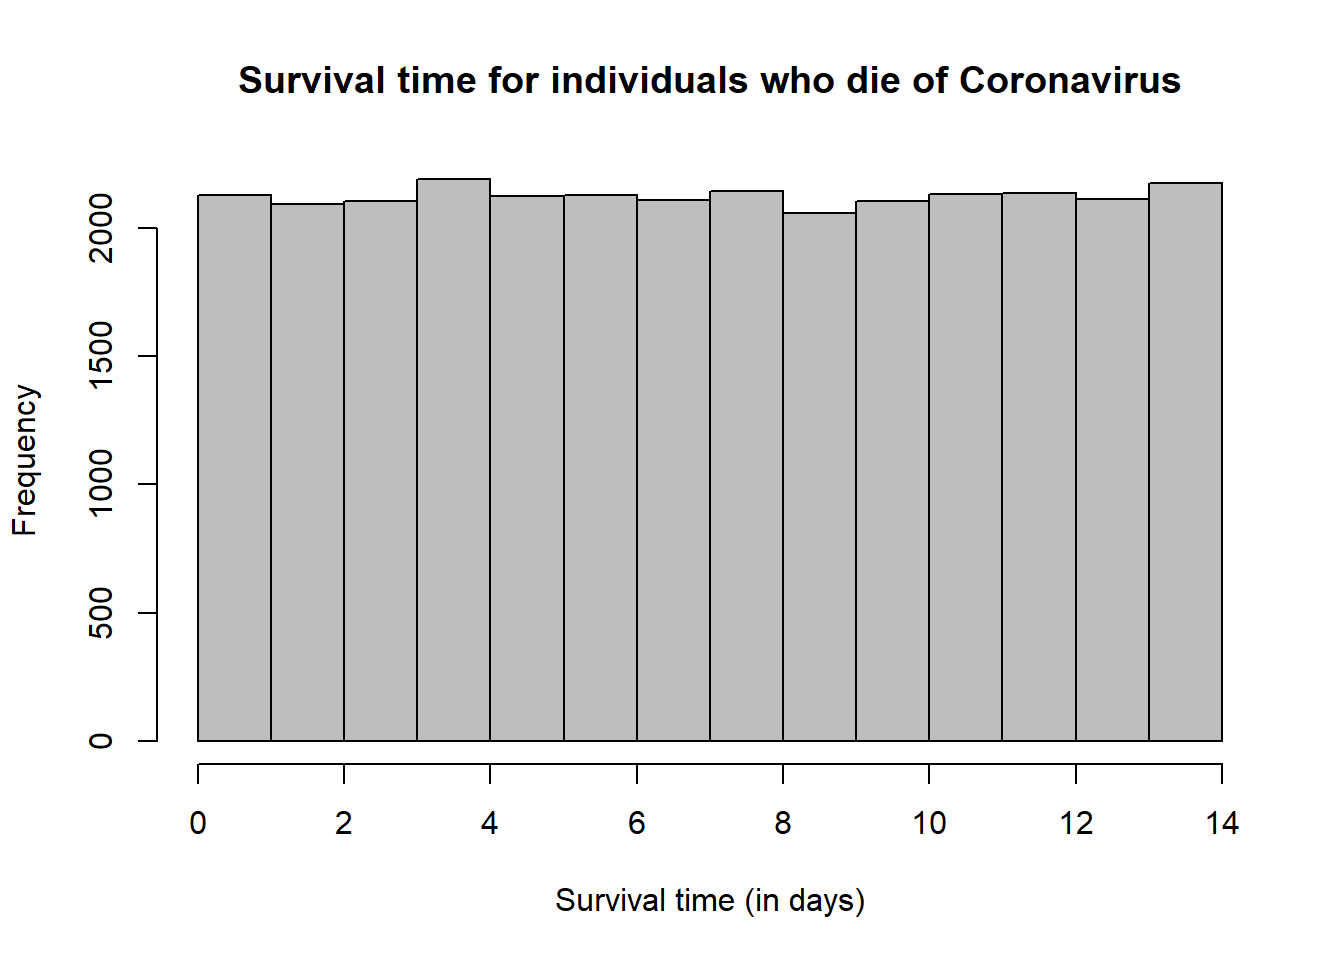
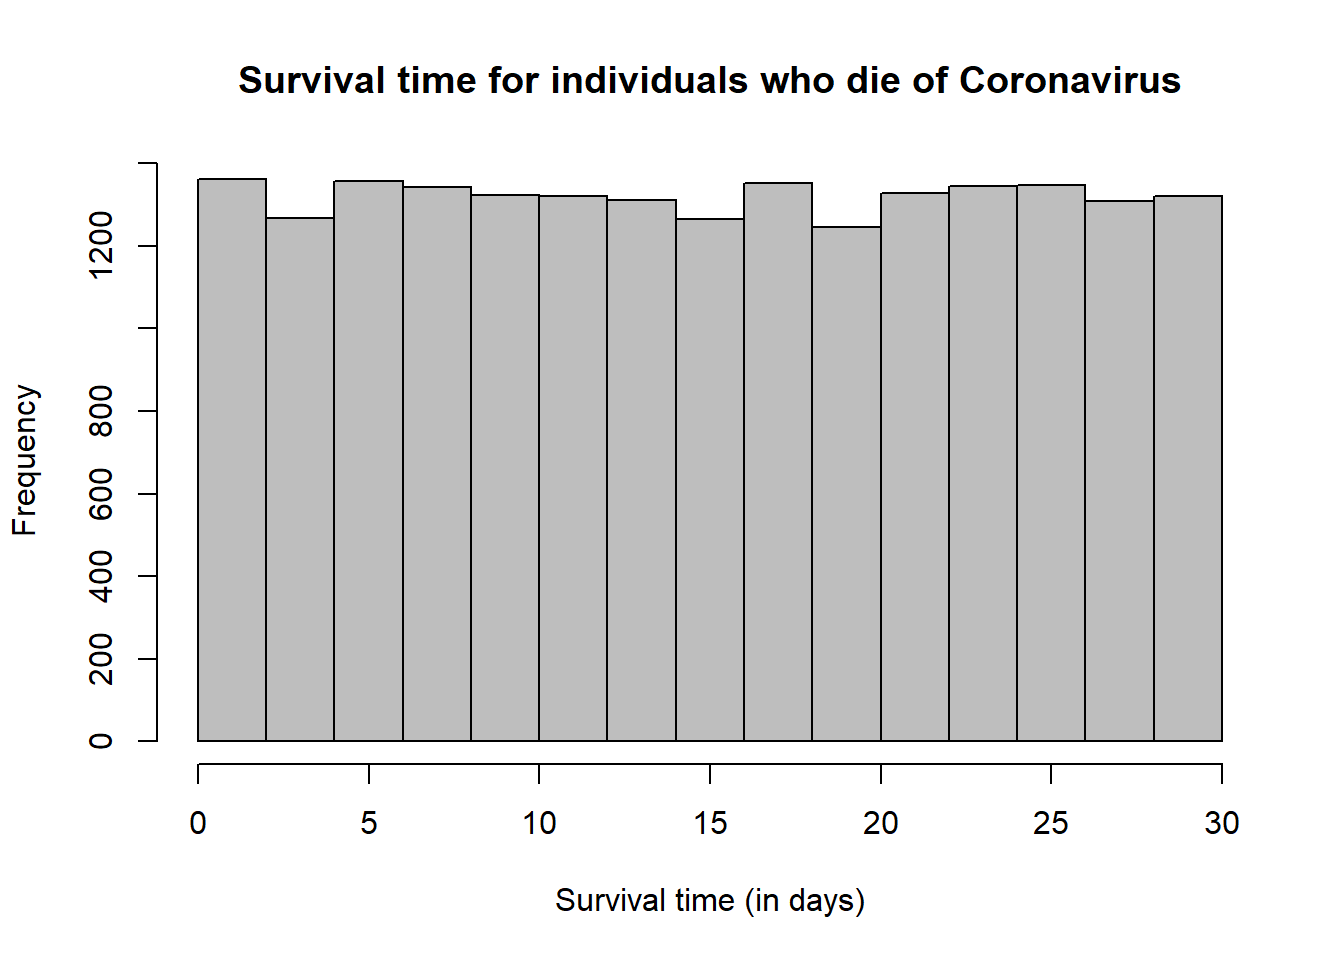
Changed max survival to 30, proportion of non-dying tested to 40%

diff --git a/2020/03/19/a-simulation-approach-to-understand-coronavirus-mortality/index.html b/2020/03/19/a-simulation-approach-to-understand-coronavirus-mortality/index.html
@@ -80,41 +80,43 @@
 
 <p>With the Coronavirus crisis currently being a global emergency, one question that has been asked over and over again is “What is the chance of dying if I contract this virus?” This is not an easy question to answer and we know that it depends on issues like an individual’s age (older individuals are much more likely to be affected than younger individuals) and how well a specific country’s healthcare system is working (including how overburdened it is during the current crisis). Nevertheless, it is still confusing to see how the <a href="https://www.worldometers.info/coronavirus/">death rates</a> are varying between 1% in South Korea and over 8% in Italy (numbers from March 19, 2020).</p>
 <p>In looking at death rates, is clear that the <em>denominator</em> – the number of individuals who are infected – is very susceptible to major differences between countries/regions, both in terms of the age distribution and in terms of who is getting tested – in Italy it is individuals who are more likely to be sick and in South Korea it is more at random, leading to more asymptomatic individuals, many of whom may never get truly sick (but can still transmit the disease) or are likely to only have a very mild illness. Because of this and the fact that Italy has a higher proportion of older individuals than South Korea <a href="https://en.wikipedia.org/wiki/List_of_countries_by_median_age">(median age of 45.5 vs. 41.8)</a>, South Korea has a <a href="https://cdn.statcdn.com/Infographic/images/normal/21134.jpeg">much higher proportion of positive tests</a> among younger individuals.</p>
-<p>Another – perhaps less appreciated – issue with estimating death rates is with the <em>numerator</em>: We know that an individual who eventually dies of Coronavirus will almost certainly not die right upon being diagnosed. Assume for example that we have tested all individuals and we know for certain that no one else will be infected in a certain community (perhaps because everyone is already infected!). We can count how many people have died by the time the last infection is caught and thus get an estimate of mortality. Should be fine, right? Well no… because it can still take weeks for infected individuals to actually die. I wasn’t smart enough to figure this out myself, but others who work in this area <a href="https://www.medrxiv.org/content/10.1101/2020.03.04.20031104v1.full.pdf">have been</a>. Also, now when I look at the stats on <a href="https://www.worldometers.info/coronavirus/">Worldometers</a>, I keep being struck by countries that have it mostly “under control” but where the rate of (new deaths)/(new cases) is very high.
+<p>Another – perhaps less appreciated – issue with estimating death rates is with the <em>numerator</em>: We know that an individual who eventually dies of Coronavirus will almost certainly not die right upon being diagnosed. Assume for example that we have tested all individuals and we know for certain that no one else will be infected in a certain community (perhaps because everyone is already infected!) We can count how many people have died by the time the last infection is caught and thus get an estimate of mortality. Should be fine, right? Well no… because it can still take weeks for infected individuals to actually die. I wasn’t smart enough to figure this out myself, but others who work in this area <a href="https://www.medrxiv.org/content/10.1101/2020.03.04.20031104v1.full.pdf">have been</a>. Also, now when I look at the stats on <a href="https://www.worldometers.info/coronavirus/">Worldometers</a>, I keep being struck by countries that have it mostly “under control” but where the rate of (new deaths)/(new cases) is very high.
 For example, on March 19, 2020 at 10:39 AM ET, there were 34 new cases reported in China and 8 new deaths – that’s a 25% fatality rate! Except it’s not, because clearly most (probably all) those new deaths are from previously diagnosed cases.</p>
-<p>So I did the only thing I could in this case, in order to get a better grasp on what could be going on… I simulated some data. Here is a simulated population of 1,000,000 <em>infected</em> individuals who each have a 3% chance of dying from the diseases. Since this is a random independent Bernoulli draw for each individual, the overall proportion will not be exactly 3%, but should be very close to it for such a big sample size:</p>
+<p>So I did the only thing I could in this case, in order to get a better grasp on what could be going on… I simulated some data. Here is a simulated population of 1,000,000 <em>infected</em> individuals who each have a 2% chance of dying from the disease. Since this is a random independent Bernoulli draw for each individual, the overall proportion will not be exactly 2%, but should be very close to it for such a big sample size:</p>
 <pre class="r"><code>## set the seed
 ## this makes you get the same results as me if you rerun this
 set.seed(840526) 
 ## population size
 pop_size &lt;- 10^6 
 ## chance of dying for each individual
-prob_death &lt;- 3/100 
+prob_death &lt;- 2/100 
 ## 0 if dies of coronavirus, 1 if does not die
 pop_deaths &lt;- rbinom(pop_size, 1, prob_death) 
 ## basic check that the proportion of deaths is close to 2%
 mean(pop_deaths) </code></pre>
-<pre><code>## [1] 0.029727</code></pre>
+<pre><code>## [1] 0.019794</code></pre>
 <pre class="r"><code>## save the number of deaths 
 ## this way I don&#39;t have to keep calculating it later
 number_deaths &lt;- sum(pop_deaths) </code></pre>
-<p>Next I simulated the survival time from Coronavirus. This is a super simple model where everyone gets infected at the same time, which is of course unrealistic. In the simulation, the 97% of individuals who will never die of Coronavirus have a survival time of infinity (they don’t live forever of course, but it doesn’t matter for this simulation), while the ones who do die have a survival time that is drawn from a Uniform(0,14) distribution, indicating that they can die at any point between 0 and 14 days (if there is a better distribution to use, please let me know and/or try it yourself):</p>
+<p>Next I simulated the survival time from Coronavirus. This is a super simple model where everyone gets infected at the same time, which is of course unrealistic. In the simulation, the 98% of individuals who will never die of Coronavirus have a survival time of infinity (they don’t live forever of course, but it doesn’t matter for this simulation), while the ones who do die have a survival time that is drawn from a Uniform(0,30) distribution, indicating that they can die at any point between 0 and 30 days (if there is a better distribution to use, please let me know and/or try it yourself):</p>
 <pre class="r"><code>## initialize survival time to infinity for everyone
 surv_Covid &lt;- rep(Inf, length=pop_size) 
 ## change survival time for individuals:
-## draw from a Uniform(0,14) for them
-surv_Covid[pop_deaths == 1] &lt;- runif(number_deaths, 0, 14)
+## draw from a Uniform(0,30) for them
+max_survival &lt;- 30
+surv_Covid[pop_deaths == 1] &lt;- runif(number_deaths, 
+                                     0, max_survival)
 ## check the histogram 
 ##  (infinite survival times are automatically excluded)
 hist(surv_Covid, col = &quot;grey&quot;, 
      main=&quot;Survival time for individuals who die of Coronavirus&quot;,
      xlab=&quot;Survival time (in days)&quot;) </code></pre>
 <p><img src="/post/2020-03-19-a-simulation-approach-to-understand-coronavirus-mortality_files/figure-html/unnamed-chunk-2-1.png" width="672" /></p>
-<p>Let’s see what happens if we estimate the mortality at day 0, day 1, all the way up to day 14, assuming that everyone is tested on day 1. I’m lazy and I’m going to write a loop. If you’re offended by seeing a loop in R, then I apologize in advance.</p>
-<pre class="r"><code>## initialize mortality vector for each day (0-14)
-mortality_by_day &lt;- rep(NA, 15) 
+<p>Let’s see what happens if we estimate the mortality at day 0, day 1, all the way up to day 30, assuming that everyone is tested on day 1. I’m lazy and I’m going to write a loop. If you’re offended by seeing a loop in R, then I apologize in advance.</p>
+<pre class="r"><code>## initialize mortality vector for each day (0-30)
+mortality_by_day &lt;- rep(NA, max_survival+1) 
 ## calculate mortality by day in this population
-for(day in 0:14) 
+for(day in 0:max_survival) 
 {
   mortality_by_day[day+1] &lt;- sum(surv_Covid &lt;= day)/pop_size
 }
@@ -123,24 +125,24 @@ plot(mortality_by_day,
      xlab = &quot;Day&quot;,
      ylab = &quot;Mortality estimate&quot;,
      main = &quot;Mortality estimate by day&quot;)</code></pre>
-<p><img src="/post/2020-03-19-a-simulation-approach-to-understand-coronavirus-mortality_files/figure-html/unnamed-chunk-3-1.png" width="672" />
-Of course, on day 14, the mortality estimate is very close to 3%, being exactly equal to the proportion of deaths. But if we look on day 3, the mortality estimate would be 0.6%. It actually increases almost linearly by day due to the uniform distribution we sampled from. Thus, we expect the death rates to increase even for countries like South Korea that did much more testing much earlier than the US, though they are still expected to be lower than in countries like Italy, whose healthcare system was massively overrun by the sudden large number of cases, even when adjusting for age.</p>
+<p><img src="/post/2020-03-19-a-simulation-approach-to-understand-coronavirus-mortality_files/figure-html/unnamed-chunk-3-1.png" width="672" /></p>
+<p>Of course, on day 30, the mortality estimate is very close to 2%, being exactly equal to the proportion of deaths. But if we look on day 3, the mortality estimate would be 0.2%. It actually increases almost linearly by day due to the uniform distribution we sampled from. Thus, we expect the death rates to increase even for countries like South Korea that did much more testing much earlier than the US, though they are still expected to be lower than in countries like Italy, whose healthcare system was massively overrun by the sudden large number of cases, even when adjusting for age.</p>
 <p>As I said before, this is a highly simplified model and many other scenarios could be considered.
-Let’s consider one additional scenario where instead of testing everyone, we end up testing individuals who are sicker and more likely to die overall. Thus, suppose we’re testing 80% of the individuals who end up dying and 50% of the individuals who end up not dying.</p>
+Let’s consider one additional scenario where instead of testing everyone, we end up testing individuals who are sicker and more likely to die overall. Thus, suppose we’re testing 80% of the individuals who end up dying and 40% of the individuals who end up not dying.</p>
 <pre class="r"><code>## sample of tested individuals among those who do not die
 tested_individuals_alive &lt;- 
   sample(which(pop_deaths==0), 
-         size = round(0.5*(pop_size-number_deaths)))
+         size = round(0.4*(pop_size-number_deaths)))
 ## number of such individuals
 length(tested_individuals_alive)</code></pre>
-<pre><code>## [1] 485136</code></pre>
+<pre><code>## [1] 392082</code></pre>
 <pre class="r"><code>## sample of tested individuals among those who do die
 tested_individuals_dead &lt;- 
   sample(which(pop_deaths==1), 
          size = round(0.8*number_deaths))
 ## number of such individuals
 length(tested_individuals_dead)</code></pre>
-<pre><code>## [1] 23782</code></pre>
+<pre><code>## [1] 15835</code></pre>
 <pre class="r"><code>## all tested individuals
 tested_individuals &lt;- c(tested_individuals_alive, 
                         tested_individuals_dead) 
@@ -151,10 +153,10 @@ surv_Covid_tested &lt;- surv_Covid[tested_individuals]
 ## number of tested individuals
 pop_size_tested &lt;- length(tested_individuals)</code></pre>
 <p>In this case, we will not be including the individuals who die of Coronavirus but are never tested. This is likely to occur in reality for at least some individuals as well. Let’s look at the mortality estimates now:</p>
-<pre class="r"><code>## initialize mortality vector for each day (0-14)
-mortality_by_day_subsample &lt;- rep(NA, 15) 
+<pre class="r"><code>## initialize mortality vector for each day (0-30)
+mortality_by_day_subsample &lt;- rep(NA, max_survival+1) 
 ## calculate mortality by day in this population
-for(day in 0:14) 
+for(day in 0:max_survival) 
 {
   mortality_by_day_subsample[day+1] &lt;- 
     sum(surv_Covid_tested &lt;= day)/pop_size_tested
@@ -165,8 +167,8 @@ plot(mortality_by_day_subsample,
      ylab = &quot;Mortality estimate&quot;,
      main = &quot;Mortality estimate by day for tested subset&quot;)</code></pre>
 <p><img src="/post/2020-03-19-a-simulation-approach-to-understand-coronavirus-mortality_files/figure-html/unnamed-chunk-5-1.png" width="672" />
-Note that the estimate at day 14 now is higher than the true value, being now
-4.7%. So we can see that this is an overestimate, but it is hard to get a good estimate!</p>
+Note that the estimate at day 30 now is higher than the true value, being now
+3.9%. So we can see that this is an overestimate, but it is hard to get a good estimate!</p>
 <p>As I said repeatedly, these were all super simple models. I actually mostly coded them up to better understand what’s going on myself, but wanted to put them out in case they’re of help to others as well.</p>
 
     </div>
